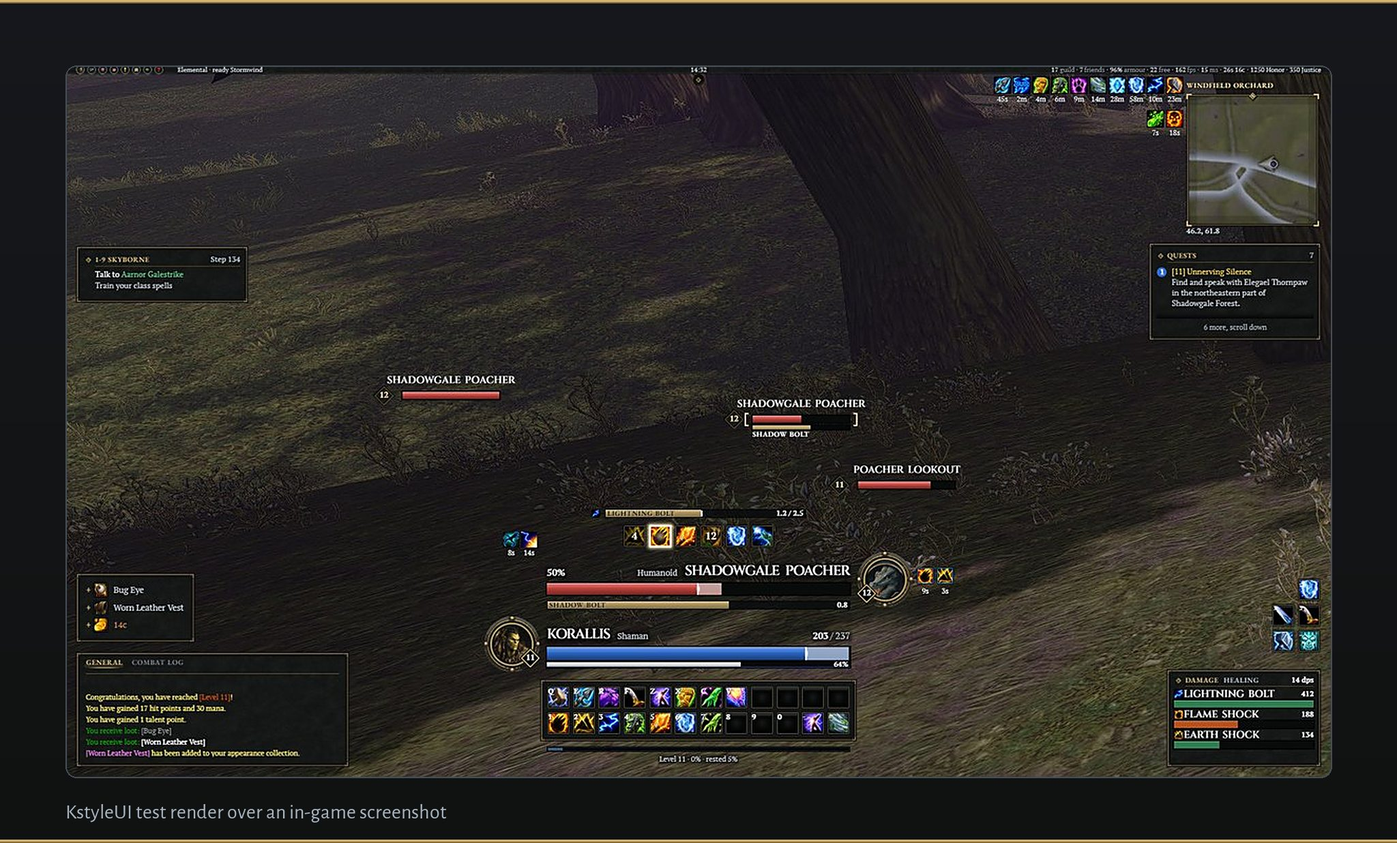
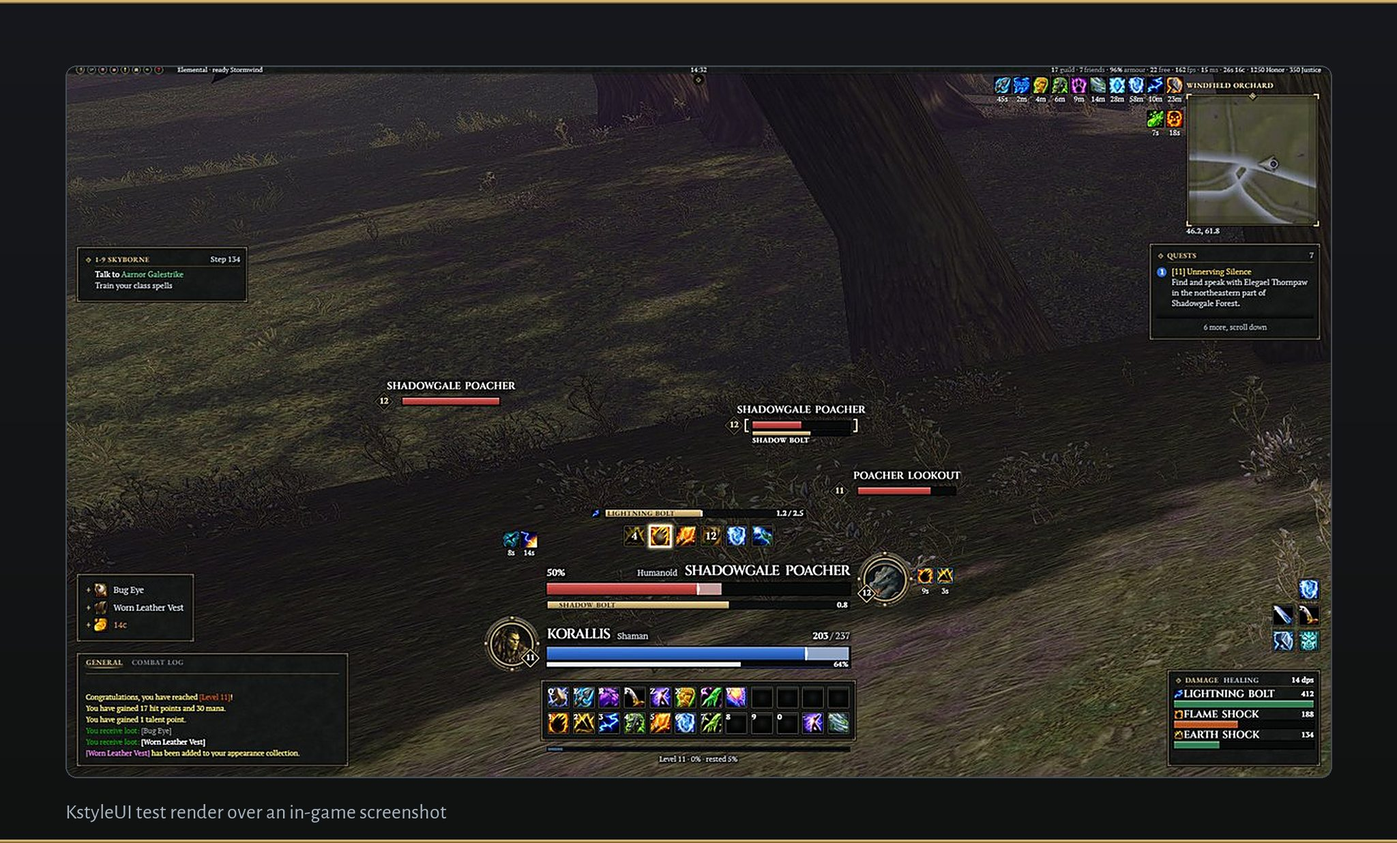
docs: README and store page for v0.3.0 (#755)
* docs: README and store page for v0.3.0

Adds three highlight GIFs (clean screen at rest, cast targets and
interrupts, world map zeppelin route with the Nearest picker) and a
still of the lit glass bars and forged slab ends, retakes the README
stills on current staging, and updates the setup and bug report lines.

* docs: frame the map GIF so the Kalimdor label sits whole

The zoomed view cut the continent label to "I M D O". RENDER_MAP_WIDE
widens worldmap_roads to a view where KALIMDOR sits whole, the route
stays above the route panel and The Great Sea label stays out of frame.

---------

diff --git a/Tools/media/marketing.py b/Tools/media/marketing.py
@@ -4,7 +4,8 @@
     python3 Tools/media/marketing.py --pages    # also regenerate README.md and the
                                                 # CurseForge/Wago description blocks
                                                 # from docs/store/description.md
-    python3 Tools/media/marketing.py --clips [NAME ...]   # also render the highlight clips (LuaJIT, Chrome)
+    python3 Tools/media/marketing.py --clips [NAME ...]   # also render the highlight clips (LuaJIT, Chrome);
+                                                          # map.gif needs RENDER_MAP_ART, the client's Kalimdor map art
 
 Images only use the addon's own OFL fonts (Media/Fonts), its procedural logo
 (Tools/media/make_media.py), the colours in Core/Tokens.lua, the in-game /
@@ -38,6 +39,9 @@ GALLERY = [
     ("06-hawks.gif", "marketing/hawks.gif", None),
     ("07-hud.jpg", "readme/hud_1080.jpg", None),
     ("08-frames.jpg", "readme/hud_frames_1080.jpg", None),
+    ("09-rest.gif", "marketing/rest.gif", None),
+    ("10-casts.gif", "marketing/casts.gif", None),
+    ("11-map.gif", "marketing/map.gif", None),
 ]
 
 # Core/Tokens.lua colours.
@@ -62,6 +66,7 @@ PITCH2 = "Run the setup once and play."
 # Narrow crops framed at banner width so every picture fills the page column.
 SHOWCASES = [
     ("show_hud_1080.jpg", "hud_1080.jpg"),
+    ("show_hud_finish.jpg", "hud_finish.jpg"),
     ("show_hud_frames_1080.jpg", "hud_frames_1080.jpg"),
     ("show_frame_raid.jpg", "frame_raid.jpg"),
 ]
@@ -125,6 +130,16 @@ CLIPS = {
     "hawks.gif": (CREST, story("hud_hunter_mac", {"RENDER_FX": "hawks"}, "RENDER_FX_T", [
         (0.5, 0.5, 300), (0.9, 1.6, 0), (8.9, 9.6, 300), (18.9, 19.45, 0), (20.4, 21.1, 700),
     ], 0.7)),
+    "rest.gif": ((468, 792, 984, 270), [
+        ("hud_reference", {"RENDER_REST": "rest"}, "RENDER_REST_T", [0], 800),
+        ("hud_reference", {"RENDER_REST": "rest"}, "RENDER_REST_T", times(0.07, 0.63), 1400),
+        ("hud_reference", {"RENDER_REST": "target"}, "RENDER_REST_T", times(0.07, 0.21), 1600),
+    ]),
+    "casts.gif": ((1036, 886, 330, 92), [("hud_rogue_mac", {"RENDER_CAST_CUES": cue}, "RENDER_CAST_CUES_T", ts, hold)
+                                         for cue, ts, hold in (("aimed", times(0, 0.28), 700), ("you", times(0, 0.28), 900),
+                                                               ("locked", times(0, 0.28), 900), ("wait", times(0, 0.63), 1100))]),
+    "map.gif": ((446, 298, 698, 510), [("worldmap_roads", {"RENDER_MAP_WIDE": "1", "RENDER_MAP_TRIP": "zeppelin", **env}, None, [0], 2400)
+                                       for env in ({}, {"RENDER_MAP_SERVICES": "1"})]),
 }
 
 README_HEADER = """<p align="center">
@@ -305,7 +320,7 @@ def write_gif(path, frames, durations):
     stack = Image.new("RGB", (frames[0].width, frames[0].height * len(sample)))
     for i, frame in enumerate(sample):
         stack.paste(frame, (0, i * frame.height))
-    palette = stack.quantize(colors=255, method=Image.Quantize.MEDIANCUT)
+    palette = stack.quantize(colors=255, method=Image.Quantize.FASTOCTREE)  # median cut turns a few frames' red bar brown
     indexed = [frame.quantize(palette=palette, dither=Image.Dither.NONE) for frame in frames]
     indexed[0].save(path, save_all=True, append_images=indexed[1:], duration=durations, loop=0, optimize=True, disposal=1)
 
@@ -315,6 +330,8 @@ def make_clip(name):
     from concurrent.futures import ThreadPoolExecutor
     from PIL import Image, ImageDraw
     box, shots = CLIPS[name]
+    if name == "map.gif" and not os.environ.get("RENDER_MAP_ART"):
+        raise SystemExit("map.gif: set RENDER_MAP_ART to the client's Kalimdor map art")
     jobs = [(scene, {**env, **({clock: str(t)} if clock else {})}) for scene, env, clock, ts, _ in shots for t in ts]
     with tempfile.TemporaryDirectory() as work:
         crops = [clip_frame(work, *jobs[0], box, True)]

diff --git a/Tools/render/readme.py b/Tools/render/readme.py
@@ -10,6 +10,7 @@ In-game Medallions media uses the game_ prefix and is preserved.
 The pictures:
 
   hud_1080         the whole HUD in combat on a 1920x1080 screen at the 15/16 size the game picks
+  hud_finish       the middle of the same HUD at twice the size: the lit glass bars and the forged slab ends
   hud_frames_1080  the same in the Frames look
   frame_raid       the raid frames with their heading, from the group frames gallery scene at twice the density
 
@@ -39,6 +40,7 @@ HUD = dict(HD, **COMBAT)
 
 RENDERS = {
     "hud_1080": ("hud_reference", 1.0, HUD, "--strict"),
+    "hud_2x": ("hud_reference", 2.0, HUD, "--strict"),
     "frames_1080": ("hud_reference", 1.0, dict(HUD, RENDER_HUD_STYLE="Frames", RENDER_ORNAMENTS="Full"), "--strict"),
     "groupframes": ("gallery_groupframes", 2.0, {}, "--strict"),
 }
@@ -46,6 +48,7 @@ RENDERS = {
 # name, source, crop, width. A source is "render:<RENDERS key>"; a crop is "WxH+X+Y" in the source's pixels or None. A picture narrower than its width stays as it is.
 IMAGES = [
     ("hud_1080", "render:hud_1080", None, 1920),
+    ("hud_finish", "render:hud_2x", "1856x444+992+1700", 1856),
     ("hud_frames_1080", "render:frames_1080", None, 1200),
     ("frame_raid", "render:groupframes", "904x442+106+724", 720),
 ]

diff --git a/Tools/tests/test_marketing.py b/Tools/tests/test_marketing.py
@@ -186,7 +186,7 @@ class MasterDescription(unittest.TestCase):
         master = MASTER.read_text(encoding="utf-8")
         prose = re.sub(r"!\[[^\]]*\]\([^)]*\)", "", master)
         self.assertLessEqual(len(prose.split()), 800, "Fix: the owner asked for a short page; link GitHub for detail")
-        self.assertLessEqual(master.count("!["), 12, "Fix: one picture or clip per feature")
+        self.assertLessEqual(master.count("!["), 13, "Fix: one picture or clip per feature")
         for tell in ("\u2014", "Elevate", "Seamless", "Unleash", "Whether you"):
             self.assertNotIn(tell, master, "Fix: write it the way the owner talks, without " + repr(tell))
 

diff --git a/docs/store/wago.md b/docs/store/wago.md
@@ -55,6 +55,18 @@ Every picture below is a test render of the addon over my own in-game screenshot
 
 *The whole thing in Medallions. Your RestedXP or Zygor guide sits top left and your quests sit on the right under the map.*
 
+![KstyleUI test render over an in-game screenshot of the middle of the Medallions HUD: lit glass bars and forged steel ends on the player and target frames](https://raw.githubusercontent.com/korallis/KstyleUI/main/docs/media/marketing/show_hud_finish.jpg)
+
+*Every bar has a lit glass finish now, and the Medallions frames end in forged steel caps.*
+
+![KstyleUI test render over an in-game screenshot: the action bars and player frame fading back out of combat, then snapping back when a target is picked](https://raw.githubusercontent.com/korallis/KstyleUI/main/docs/media/marketing/rest.gif)
+
+*Out of combat with nothing targeted, your bars fade back so you can see the game. Target something and they're straight back.*
+
+![KstyleUI test render over an in-game screenshot: a target's cast bar naming who the spell is aimed at, then YOU, a shield on a cast you can't interrupt, and a dim bar with a gold mark while your interrupt recharges](https://raw.githubusercontent.com/korallis/KstyleUI/main/docs/media/marketing/casts.gif)
+
+*Enemy cast bars say who the spell is aimed at, or YOU. A shield means you can't kick it, and a gold mark shows where your kick is back.*
+
 ![KstyleUI test render over an in-game screenshot of the Frames look on a 1920 by 1080 screen: the target's card stacked over the player's above the action bars](https://raw.githubusercontent.com/korallis/KstyleUI/main/docs/media/marketing/show_hud_frames_1080.jpg)
 
 *If the crest isn't your thing, Frames is the other look: big plain cards for you and your target, same forged style. Pick it in the setup, or switch any time under HUD style on the General page of `/kstyle`.*
@@ -63,19 +75,23 @@ Every picture below is a test render of the addon over my own in-game screenshot
 
 *Party and raid frames get the same look, with the debuffs you can dispel up front.*
 
-There's a lot more in there than fits here: nameplates, a damage and threat meter, bags, tooltips, chat, skins for most of Blizzard's windows and a world map that plans your route. Every bit of it can be switched off in `/kstyle`. Each module has a README on [GitHub](https://github.com/korallis/KstyleUI) with all its settings.
+![KstyleUI test render over an in-game screenshot, with the game's own map art: a route to the Undercity by road and zeppelin, then the Nearest innkeeper, bank and trainer picker](https://raw.githubusercontent.com/korallis/KstyleUI/main/docs/media/marketing/map.gif)
+
+*The map plans your route, zeppelins and the tram included, and finds the nearest innkeeper, bank or trainer you've been to. The map art is the game's own.*
+
+There's a lot more in there than fits here: nameplates, a damage and threat meter, bags, tooltips, chat and skins for most of Blizzard's windows. Every bit of it can be switched off in `/kstyle`. Each module has a README on [GitHub](https://github.com/korallis/KstyleUI) with all its settings.
 
 ## Install
 
 1. Install it with the CurseForge app, the Wago app or WowUp. By hand, unzip it into `World of Warcraft/_forever_/Interface/AddOns`.
-2. Log in, pick Medallions or Frames and then DPS, Tank or Healer in the setup window, then click **Apply** and **Reload**.
+2. Log in, pick Medallions or Frames and a Look, then DPS, Tank or Healer in the setup window, then click **Apply** and **Reload**.
 3. `/kstyle` opens the settings, `/kstyle layout` lets you move stuff and `/kb` binds your keys.
 
 The icon pack is optional and isn't an addon, so it's only on [GitHub](https://github.com/korallis/KstyleUI/releases/latest). The [icon pack guide](https://github.com/korallis/KstyleUI/blob/main/docs/icons.md) has the steps.
 
 ## Links
 
-- Help, bug reports and news: [Discord](https://discord.gg/A5qqGZEXyN)
+- Help, bug reports and news: [Discord](https://discord.gg/A5qqGZEXyN). For a bug, paste the report from About > Status in `/kstyle`.
 - Source code: https://github.com/korallis/KstyleUI
 
 ## Credits
@@ -132,5 +148,8 @@ Upload in this order. The gallery description is the caption.
 | `gallery/06-hawks.gif` | 800×494 | Hawk perches | KstyleUI test render over an in-game screenshot: a hunter's hawk perches on the crest ring, each with a timer for its hawk. Icons in this picture are the optional AI-made icon pack, not art shipped in the addon. |
 | `gallery/07-hud.jpg` | 1920×1080 | The whole HUD | KstyleUI test render over an in-game screenshot of the whole HUD on a 1920 by 1080 screen: the guide card top left, the quests on the right under the map. Icons in this picture are the optional AI-made icon pack, not art shipped in the addon. |
 | `gallery/08-frames.jpg` | 1200×675 | The Frames look | KstyleUI test render over an in-game screenshot of the Frames look on a 1920 by 1080 screen: the target's card stacked over the player's above the action bars. Icons in this picture are the optional AI-made icon pack, not art shipped in the addon. |
+| `gallery/09-rest.gif` | 800×261 | Clean screen at rest | KstyleUI test render over an in-game screenshot: out of combat with no target, the bars and player frame fade back, then a target brings them straight back. Icons in this picture are the optional AI-made icon pack, not art shipped in the addon. |
+| `gallery/10-casts.gif` | 800×264 | Who a cast is aimed at | KstyleUI test render over an in-game screenshot: a target's cast bar names who the spell is aimed at, says YOU, shields a cast you can't interrupt, then dims with a gold mark while your interrupt recharges. Icons in this picture are the optional AI-made icon pack, not art shipped in the addon. |
+| `gallery/11-map.gif` | 800×611 | Routes and nearest services | KstyleUI test render over an in-game screenshot, with the game's own map art: a route to the Undercity by road and zeppelin, then the Nearest picker for innkeepers, banks and trainers. Icons in this picture are the optional AI-made icon pack, not art shipped in the addon. |
 
 The upload page for a project, once it exists, is `https://addons.wago.io/developers/projects/<slug>/gallery/create`.

diff --git a/docs/store/curseforge.md b/docs/store/curseforge.md
@@ -68,6 +68,18 @@ Every picture below is a test render of the addon over my own in-game screenshot
 
 *The whole thing in Medallions. Your RestedXP or Zygor guide sits top left and your quests sit on the right under the map.*
 
+![KstyleUI test render over an in-game screenshot of the middle of the Medallions HUD: lit glass bars and forged steel ends on the player and target frames](https://raw.githubusercontent.com/korallis/KstyleUI/main/docs/media/marketing/show_hud_finish.jpg)
+
+*Every bar has a lit glass finish now, and the Medallions frames end in forged steel caps.*
+
+![KstyleUI test render over an in-game screenshot: the action bars and player frame fading back out of combat, then snapping back when a target is picked](https://raw.githubusercontent.com/korallis/KstyleUI/main/docs/media/marketing/rest.gif)
+
+*Out of combat with nothing targeted, your bars fade back so you can see the game. Target something and they're straight back.*
+
+![KstyleUI test render over an in-game screenshot: a target's cast bar naming who the spell is aimed at, then YOU, a shield on a cast you can't interrupt, and a dim bar with a gold mark while your interrupt recharges](https://raw.githubusercontent.com/korallis/KstyleUI/main/docs/media/marketing/casts.gif)
+
+*Enemy cast bars say who the spell is aimed at, or YOU. A shield means you can't kick it, and a gold mark shows where your kick is back.*
+
 ![KstyleUI test render over an in-game screenshot of the Frames look on a 1920 by 1080 screen: the target's card stacked over the player's above the action bars](https://raw.githubusercontent.com/korallis/KstyleUI/main/docs/media/marketing/show_hud_frames_1080.jpg)
 
 *If the crest isn't your thing, Frames is the other look: big plain cards for you and your target, same forged style. Pick it in the setup, or switch any time under HUD style on the General page of `/kstyle`.*
@@ -76,19 +88,23 @@ Every picture below is a test render of the addon over my own in-game screenshot
 
 *Party and raid frames get the same look, with the debuffs you can dispel up front.*
 
-There's a lot more in there than fits here: nameplates, a damage and threat meter, bags, tooltips, chat, skins for most of Blizzard's windows and a world map that plans your route. Every bit of it can be switched off in `/kstyle`. Each module has a README on [GitHub](https://github.com/korallis/KstyleUI) with all its settings.
+![KstyleUI test render over an in-game screenshot, with the game's own map art: a route to the Undercity by road and zeppelin, then the Nearest innkeeper, bank and trainer picker](https://raw.githubusercontent.com/korallis/KstyleUI/main/docs/media/marketing/map.gif)
+
+*The map plans your route, zeppelins and the tram included, and finds the nearest innkeeper, bank or trainer you've been to. The map art is the game's own.*
+
+There's a lot more in there than fits here: nameplates, a damage and threat meter, bags, tooltips, chat and skins for most of Blizzard's windows. Every bit of it can be switched off in `/kstyle`. Each module has a README on [GitHub](https://github.com/korallis/KstyleUI) with all its settings.
 
 ## Install
 
 1. Install it with the CurseForge app, the Wago app or WowUp. By hand, unzip it into `World of Warcraft/_forever_/Interface/AddOns`.
-2. Log in, pick Medallions or Frames and then DPS, Tank or Healer in the setup window, then click **Apply** and **Reload**.
+2. Log in, pick Medallions or Frames and a Look, then DPS, Tank or Healer in the setup window, then click **Apply** and **Reload**.
 3. `/kstyle` opens the settings, `/kstyle layout` lets you move stuff and `/kb` binds your keys.
 
 The icon pack is optional and isn't an addon, so it's only on [GitHub](https://github.com/korallis/KstyleUI/releases/latest). The [icon pack guide](https://github.com/korallis/KstyleUI/blob/main/docs/icons.md) has the steps.
 
 ## Links
 
-- Help, bug reports and news: [Discord](https://discord.gg/A5qqGZEXyN)
+- Help, bug reports and news: [Discord](https://discord.gg/A5qqGZEXyN). For a bug, paste the report from About > Status in `/kstyle`.
 - Source code: https://github.com/korallis/KstyleUI
 
 ## Credits
@@ -139,3 +155,6 @@ Upload in this order. Title, then caption.
 | `gallery/06-hawks.gif` | 800×494 | Hawk perches | KstyleUI test render over an in-game screenshot: a hunter's hawk perches on the crest ring, each with a timer for its hawk. Icons in this picture are the optional AI-made icon pack, not art shipped in the addon. |
 | `gallery/07-hud.jpg` | 1920×1080 | The whole HUD | KstyleUI test render over an in-game screenshot of the whole HUD on a 1920 by 1080 screen: the guide card top left, the quests on the right under the map. Icons in this picture are the optional AI-made icon pack, not art shipped in the addon. |
 | `gallery/08-frames.jpg` | 1200×675 | The Frames look | KstyleUI test render over an in-game screenshot of the Frames look on a 1920 by 1080 screen: the target's card stacked over the player's above the action bars. Icons in this picture are the optional AI-made icon pack, not art shipped in the addon. |
+| `gallery/09-rest.gif` | 800×261 | Clean screen at rest | KstyleUI test render over an in-game screenshot: out of combat with no target, the bars and player frame fade back, then a target brings them straight back. Icons in this picture are the optional AI-made icon pack, not art shipped in the addon. |
+| `gallery/10-casts.gif` | 800×264 | Who a cast is aimed at | KstyleUI test render over an in-game screenshot: a target's cast bar names who the spell is aimed at, says YOU, shields a cast you can't interrupt, then dims with a gold mark while your interrupt recharges. Icons in this picture are the optional AI-made icon pack, not art shipped in the addon. |
+| `gallery/11-map.gif` | 800×611 | Routes and nearest services | KstyleUI test render over an in-game screenshot, with the game's own map art: a route to the Undercity by road and zeppelin, then the Nearest picker for innkeepers, banks and trainers. Icons in this picture are the optional AI-made icon pack, not art shipped in the addon. |

diff --git a/README.md b/README.md
@@ -38,6 +38,18 @@ Every picture below is a test render of the addon over my own in-game screenshot
 
 *The whole thing in Medallions. Your RestedXP or Zygor guide sits top left and your quests sit on the right under the map.*
 
+![KstyleUI test render over an in-game screenshot of the middle of the Medallions HUD: lit glass bars and forged steel ends on the player and target frames](https://raw.githubusercontent.com/korallis/KstyleUI/main/docs/media/marketing/show_hud_finish.jpg)
+
+*Every bar has a lit glass finish now, and the Medallions frames end in forged steel caps.*
+
+![KstyleUI test render over an in-game screenshot: the action bars and player frame fading back out of combat, then snapping back when a target is picked](https://raw.githubusercontent.com/korallis/KstyleUI/main/docs/media/marketing/rest.gif)
+
+*Out of combat with nothing targeted, your bars fade back so you can see the game. Target something and they're straight back.*
+
+![KstyleUI test render over an in-game screenshot: a target's cast bar naming who the spell is aimed at, then YOU, a shield on a cast you can't interrupt, and a dim bar with a gold mark while your interrupt recharges](https://raw.githubusercontent.com/korallis/KstyleUI/main/docs/media/marketing/casts.gif)
+
+*Enemy cast bars say who the spell is aimed at, or YOU. A shield means you can't kick it, and a gold mark shows where your kick is back.*
+
 ![KstyleUI test render over an in-game screenshot of the Frames look on a 1920 by 1080 screen: the target's card stacked over the player's above the action bars](https://raw.githubusercontent.com/korallis/KstyleUI/main/docs/media/marketing/show_hud_frames_1080.jpg)
 
 *If the crest isn't your thing, Frames is the other look: big plain cards for you and your target, same forged style. Pick it in the setup, or switch any time under HUD style on the General page of `/kstyle`.*
@@ -46,19 +58,23 @@ Every picture below is a test render of the addon over my own in-game screenshot
 
 *Party and raid frames get the same look, with the debuffs you can dispel up front.*
 
-There's a lot more in there than fits here: nameplates, a damage and threat meter, bags, tooltips, chat, skins for most of Blizzard's windows and a world map that plans your route. Every bit of it can be switched off in `/kstyle`. Each module has a README on [GitHub](https://github.com/korallis/KstyleUI) with all its settings.
+![KstyleUI test render over an in-game screenshot, with the game's own map art: a route to the Undercity by road and zeppelin, then the Nearest innkeeper, bank and trainer picker](https://raw.githubusercontent.com/korallis/KstyleUI/main/docs/media/marketing/map.gif)
+
+*The map plans your route, zeppelins and the tram included, and finds the nearest innkeeper, bank or trainer you've been to. The map art is the game's own.*
+
+There's a lot more in there than fits here: nameplates, a damage and threat meter, bags, tooltips, chat and skins for most of Blizzard's windows. Every bit of it can be switched off in `/kstyle`. Each module has a README on [GitHub](https://github.com/korallis/KstyleUI) with all its settings.
 
 ## Install
 
 1. Install it with the CurseForge app, the Wago app or WowUp. By hand, unzip it into `World of Warcraft/_forever_/Interface/AddOns`.
-2. Log in, pick Medallions or Frames and then DPS, Tank or Healer in the setup window, then click **Apply** and **Reload**.
+2. Log in, pick Medallions or Frames and a Look, then DPS, Tank or Healer in the setup window, then click **Apply** and **Reload**.
 3. `/kstyle` opens the settings, `/kstyle layout` lets you move stuff and `/kb` binds your keys.
 
 The icon pack is optional and isn't an addon, so it's only on [GitHub](https://github.com/korallis/KstyleUI/releases/latest). The [icon pack guide](https://github.com/korallis/KstyleUI/blob/main/docs/icons.md) has the steps.
 
 ## Links
 
-- Help, bug reports and news: [Discord](https://discord.gg/A5qqGZEXyN)
+- Help, bug reports and news: [Discord](https://discord.gg/A5qqGZEXyN). For a bug, paste the report from About > Status in `/kstyle`.
 - Source code: https://github.com/korallis/KstyleUI
 
 ## Credits

diff --git a/docs/store/description.md b/docs/store/description.md
@@ -32,6 +32,18 @@ Every picture below is a test render of the addon over my own in-game screenshot
 
 *The whole thing in Medallions. Your RestedXP or Zygor guide sits top left and your quests sit on the right under the map.*
 
+![KstyleUI test render over an in-game screenshot of the middle of the Medallions HUD: lit glass bars and forged steel ends on the player and target frames](https://raw.githubusercontent.com/korallis/KstyleUI/main/docs/media/marketing/show_hud_finish.jpg)
+
+*Every bar has a lit glass finish now, and the Medallions frames end in forged steel caps.*
+
+![KstyleUI test render over an in-game screenshot: the action bars and player frame fading back out of combat, then snapping back when a target is picked](https://raw.githubusercontent.com/korallis/KstyleUI/main/docs/media/marketing/rest.gif)
+
+*Out of combat with nothing targeted, your bars fade back so you can see the game. Target something and they're straight back.*
+
+![KstyleUI test render over an in-game screenshot: a target's cast bar naming who the spell is aimed at, then YOU, a shield on a cast you can't interrupt, and a dim bar with a gold mark while your interrupt recharges](https://raw.githubusercontent.com/korallis/KstyleUI/main/docs/media/marketing/casts.gif)
+
+*Enemy cast bars say who the spell is aimed at, or YOU. A shield means you can't kick it, and a gold mark shows where your kick is back.*
+
 ![KstyleUI test render over an in-game screenshot of the Frames look on a 1920 by 1080 screen: the target's card stacked over the player's above the action bars](https://raw.githubusercontent.com/korallis/KstyleUI/main/docs/media/marketing/show_hud_frames_1080.jpg)
 
 *If the crest isn't your thing, Frames is the other look: big plain cards for you and your target, same forged style. Pick it in the setup, or switch any time under HUD style on the General page of `/kstyle`.*
@@ -40,19 +52,23 @@ Every picture below is a test render of the addon over my own in-game screenshot
 
 *Party and raid frames get the same look, with the debuffs you can dispel up front.*
 
-There's a lot more in there than fits here: nameplates, a damage and threat meter, bags, tooltips, chat, skins for most of Blizzard's windows and a world map that plans your route. Every bit of it can be switched off in `/kstyle`. Each module has a README on [GitHub](https://github.com/korallis/KstyleUI) with all its settings.
+![KstyleUI test render over an in-game screenshot, with the game's own map art: a route to the Undercity by road and zeppelin, then the Nearest innkeeper, bank and trainer picker](https://raw.githubusercontent.com/korallis/KstyleUI/main/docs/media/marketing/map.gif)
+
+*The map plans your route, zeppelins and the tram included, and finds the nearest innkeeper, bank or trainer you've been to. The map art is the game's own.*
+
+There's a lot more in there than fits here: nameplates, a damage and threat meter, bags, tooltips, chat and skins for most of Blizzard's windows. Every bit of it can be switched off in `/kstyle`. Each module has a README on [GitHub](https://github.com/korallis/KstyleUI) with all its settings.
 
 ## Install
 
 1. Install it with the CurseForge app, the Wago app or WowUp. By hand, unzip it into `World of Warcraft/_forever_/Interface/AddOns`.
-2. Log in, pick Medallions or Frames and then DPS, Tank or Healer in the setup window, then click **Apply** and **Reload**.
+2. Log in, pick Medallions or Frames and a Look, then DPS, Tank or Healer in the setup window, then click **Apply** and **Reload**.
 3. `/kstyle` opens the settings, `/kstyle layout` lets you move stuff and `/kb` binds your keys.
 
 The icon pack is optional and isn't an addon, so it's only on [GitHub](https://github.com/korallis/KstyleUI/releases/latest). The [icon pack guide](https://github.com/korallis/KstyleUI/blob/main/docs/icons.md) has the steps.
 
 ## Links
 
-- Help, bug reports and news: [Discord](https://discord.gg/A5qqGZEXyN)
+- Help, bug reports and news: [Discord](https://discord.gg/A5qqGZEXyN). For a bug, paste the report from About > Status in `/kstyle`.
 - Source code: https://github.com/korallis/KstyleUI
 
 ## Credits
